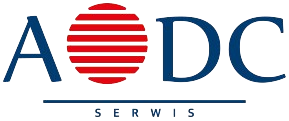
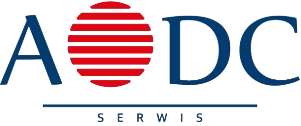
.

diff --git a/src/Components/Carousel/style.scss b/src/Components/Carousel/style.scss
@@ -147,7 +147,7 @@ $animationSpeed: 40s;
 	width: 100%;
 
 	img {
-		object-fit: fill;
+		object-fit: scale-down;
 		width: 200px;
 		height: 70px;
 	}
